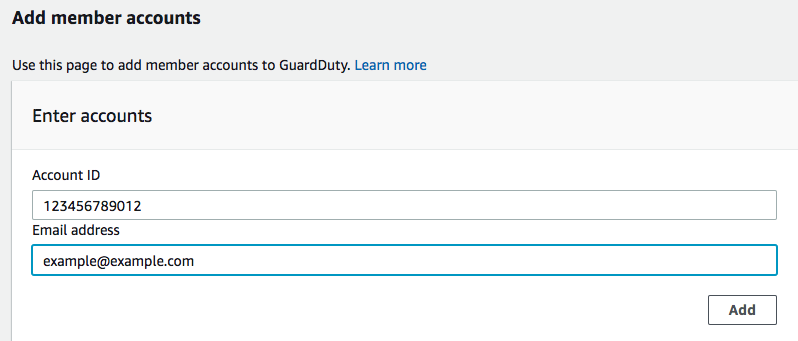
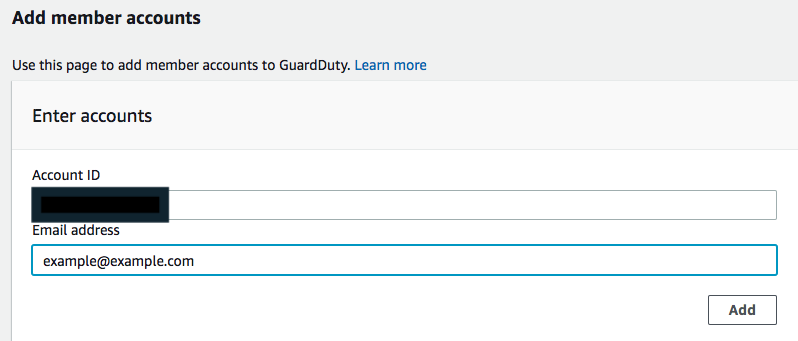
redacted some sensitive information :

Changed region(s): [[0.0301, 0.5279, 0.2105, 0.6745]]

diff --git a/content/Workshops/_index.en.md b/content/Workshops/_index.en.md
@@ -17,8 +17,8 @@ These workshops are designed to help you get familiar with AWS Security and Oper
 
 | Topic | Description |
 |-----------|---------|
-|[1. Accurate Account Info](/workshops/module1) | When AWS needs to contact you about your AWS account (https://aws.amazon.com/answers/security/aws-secure-account-setup/), we use the contact information defined in the AWS Management Console, including the email address used to create the account and those listed under Alternate Contacts. You should also have a process for regularly checking that these email addresses work, and that you are responding to emails—especially security notifications you might receive from abuse@amazon.com.
-|[2. Use MFA](/workshops/module2)| MFA is the best way to protect accounts from inappropriate access. Always set up MFA on your Root user and AWS Identity and Access Management (IAM) users. If you use AWS Single Sign-On (SSO) (https://aws.amazon.com/single-sign-on/) to control access to AWS or to federate your corporate identity store, you can enforce MFA there. Implementing MFA at the federated identity provider (IdP) means that you can take advantage of existing MFA processes in your organization. 
+|[1. Accurate Account Info](/workshops/module1) | When AWS needs to contact you about your [AWS account](https://aws.amazon.com/answers/security/aws-secure-account-setup/), we use the contact information defined in the AWS Management Console, including the email address used to create the account and those listed under Alternate Contacts. You should also have a process for regularly checking that these email addresses work, and that you are responding to emails—especially security notifications you might receive from abuse@amazon.com.
+|[2. Use MFA](/workshops/module2)| MFA is the best way to protect accounts from inappropriate access. Always set up MFA on your Root user and AWS Identity and Access Management (IAM) users. If you use [AWS Single Sign-On (SSO)](https://aws.amazon.com/single-sign-on/) to control access to AWS or to federate your corporate identity store, you can enforce MFA there. Implementing MFA at the federated identity provider (IdP) means that you can take advantage of existing MFA processes in your organization. 
 |[3. No Hardcoding Secrets](/workshops/module3)| When you build applications on AWS, you can use AWS IAM roles to deliver temporary, short-lived credentials for calling AWS services. However, some applications require longer-lived credentials, such as database passwords or other API keys. If this is the case, you should never hard code these secrets in the application or store them in source code.
 |[4. Limit Security Groups](/workshops/module4)| Security groups are a key way that you can enable network access to resources you have provisioned on AWS. Ensuring that only the required ports are open and the connection is enabled from known network ranges is a foundational approach to security.
 |[5. Intentional Data Policies](/workshops/module5)| Not all data is created equal, which means [classifying data properly is crucial to its security](https://aws.amazon.com/blogs/database/best-practices-for-securing-sensitive-data-in-aws-data-stores/). It’s important to accommodate the complex tradeoffs between a strict security posture and a flexible agile environment. 
